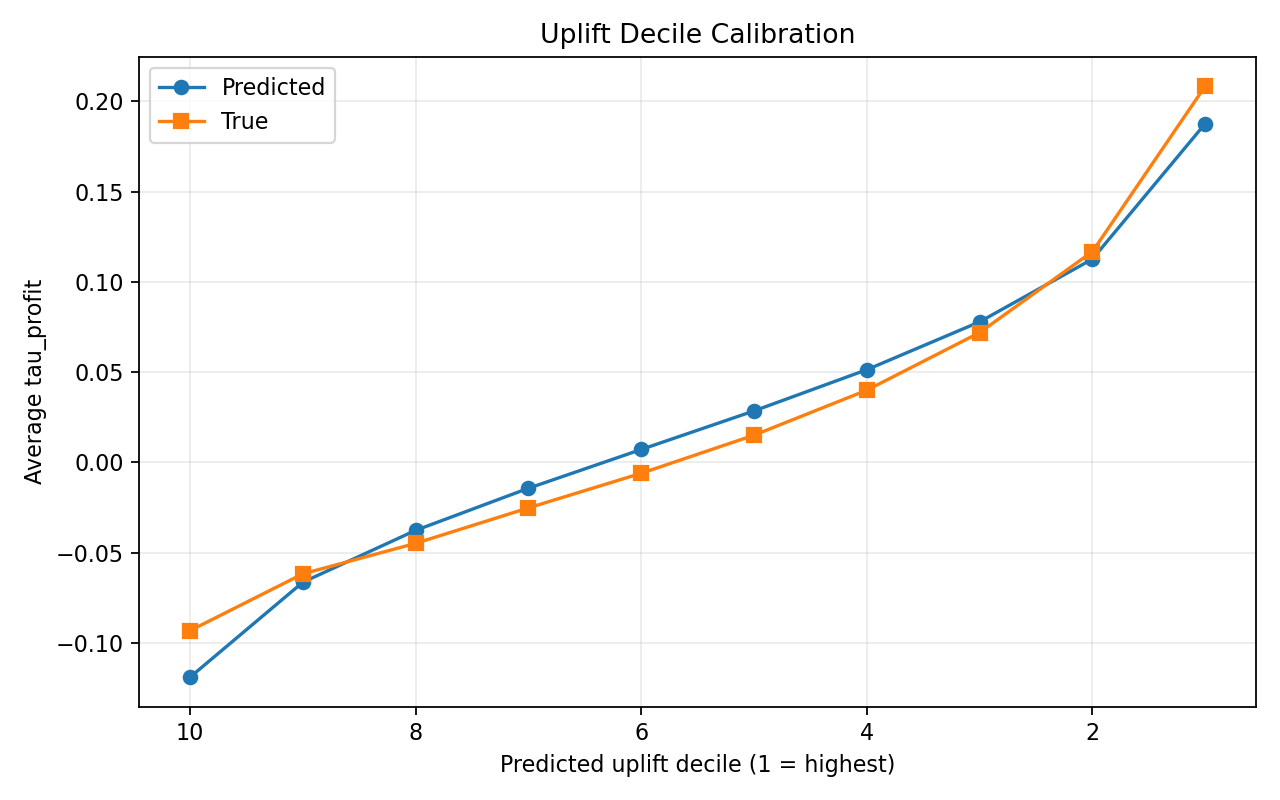
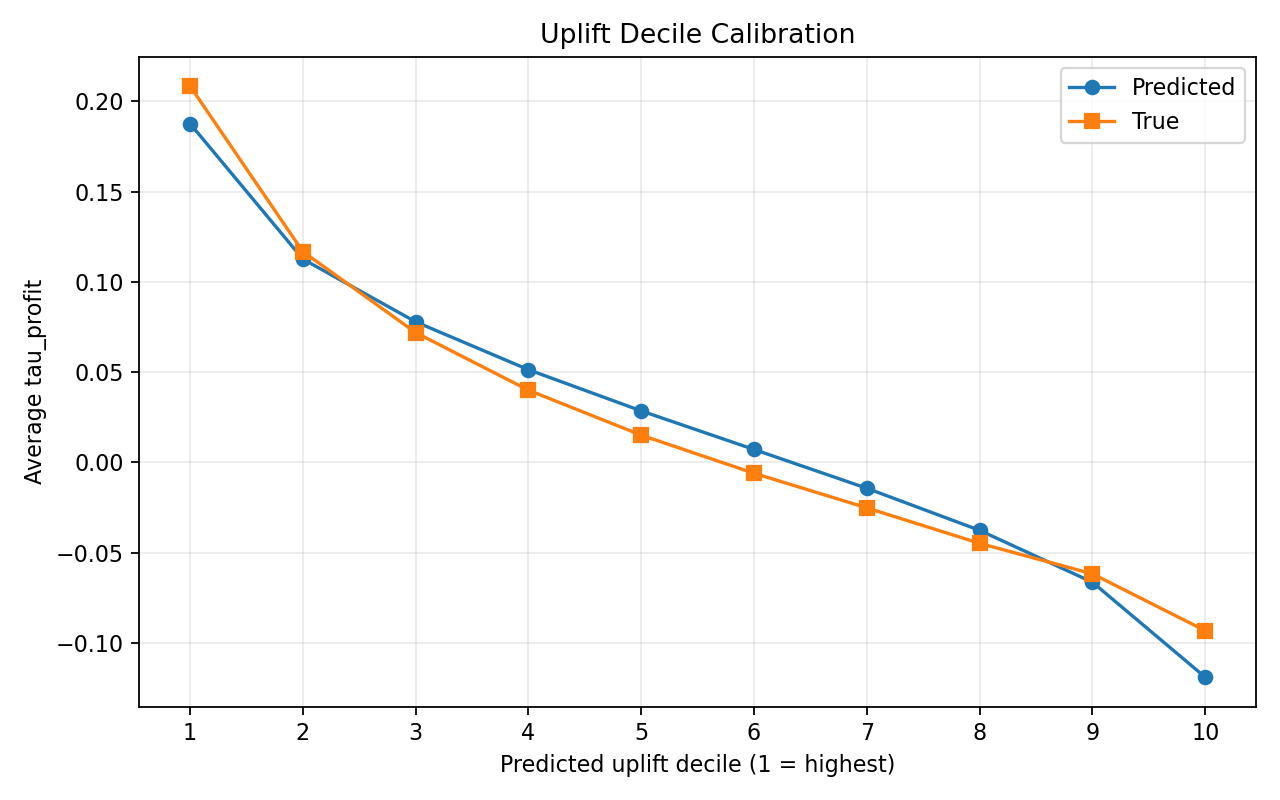
Clarify results and calibration chart

diff --git a/training/train_criteo_profit_uplift.py b/training/train_criteo_profit_uplift.py
@@ -978,7 +978,7 @@ def save_calibration_plot(calibration: pd.DataFrame, output_path: Path) -> None:
     plt.figure(figsize=(8, 5))
     plt.plot(calibration["decile"], calibration["avg_predicted_tau_profit"], marker="o", label="Predicted")
     plt.plot(calibration["decile"], calibration["avg_true_tau_profit"], marker="s", label="True")
-    plt.gca().invert_xaxis()
+    plt.xticks(calibration["decile"])
     plt.xlabel("Predicted uplift decile (1 = highest)")
     plt.ylabel("Average tau_profit")
     plt.title("Uplift Decile Calibration")

diff --git a/README.md b/README.md
@@ -114,7 +114,7 @@ GMV Targeting incremental_profit = 859.87
 Random incremental_profit = -470.26
 ```
 
-可以看到，CVR/GMV 模型虽然能找到“高价值用户”，但不一定能找到“高增量用户”；DR-Learner 更贴近这个业务问题本身。
+可以看到，CVR/GMV 模型虽然能找到“高价值用户”，但不一定能找到“高增量用户”。T-Learner 是一个很强的基线，在较小预算下会更激进；我最终把 DR-Learner 作为主方案，是因为它在固定预算主指标上略优，同时 Qini、校准和反事实评估口径更稳，更贴近这个业务问题本身。
 
 ## 复现
 